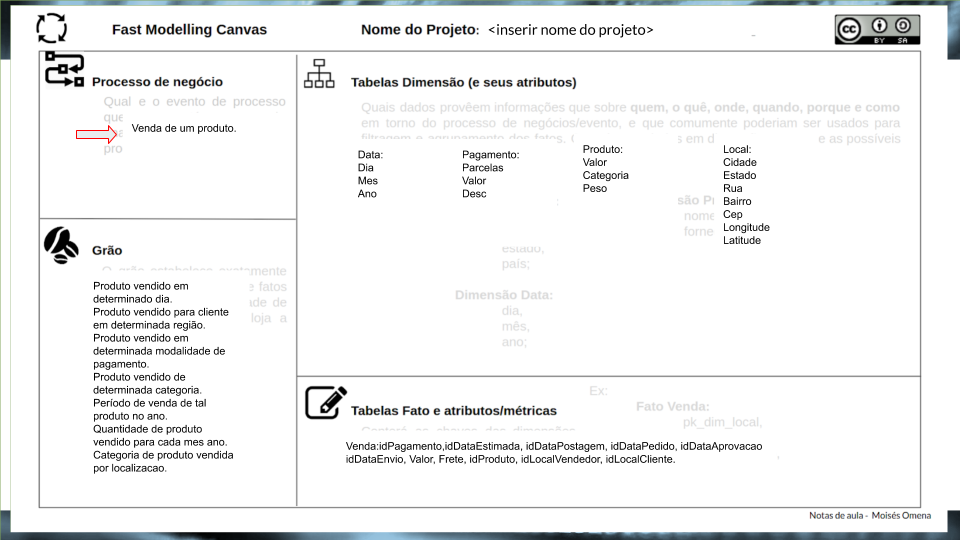
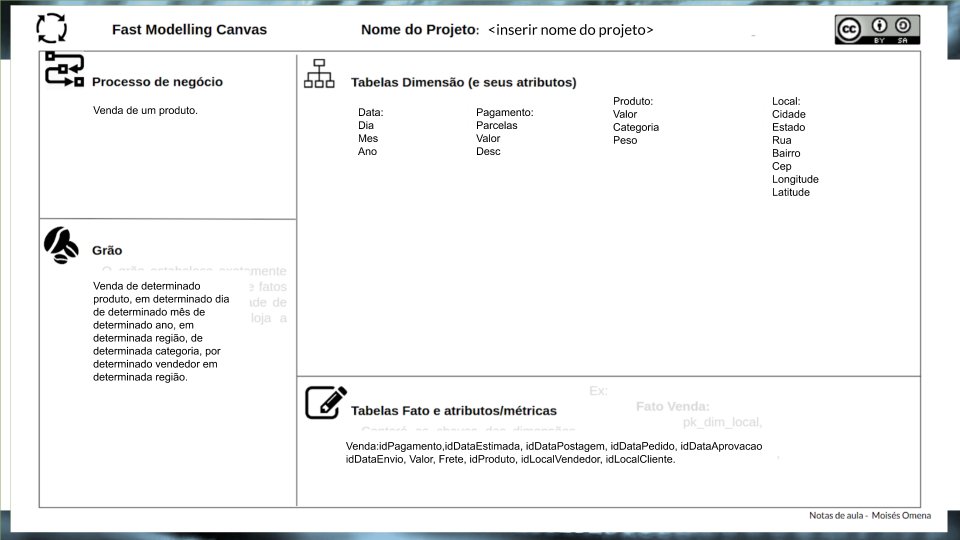
Ajustes Solicitados

diff --git a/README.md b/README.md
@@ -12,29 +12,38 @@ Kaio Fabio - 20182BSI0485<br>
 
 ### 2	Escolha da base de dados e explicação sobre informações relacionadas <br>
 Base escolhida do Site Kaggle.
+
+Este conjunto de dados foi generosamente fornecido pela Olist, a maior loja de departamentos no mercado brasileiro. A Olist conecta pequenas empresas de todo o Brasil a canais sem complicações e com um único contrato. Esses comerciantes podem vender seus produtos através da Olist Store e enviá-los diretamente aos clientes usando os parceiros de logística Olist.
+Depois que um cliente compra o produto na Olist Store, um vendedor é notificado para atender a esse pedido. Assim que o cliente recebe o produto, ou a data estimada de entrega está vencida, o cliente recebe por e-mail uma pesquisa de satisfação onde pode dar uma nota sobre a experiência de compra e escrever alguns comentários.
+
 Brazilian E-Commerce Public Dataset by Olist -URL https://www.kaggle.com/olistbr/brazilian-ecommerce<br>
 
 ### 3 Fast Imersion Canvas <br>
 Inclusão do Fast Imersion Canvas
 ![texto](https://github.com/KaioSSL/TrabalhoBD2_2020/blob/main/Imagens/Fast%20Immersion%20Canvas%20-%20E-commerce%20Brazil.png)
+Link: https://docs.google.com/presentation/d/18WK_3QXJ4UdTJVGzuaaDKdUvGlMRrjsr4doKVj6fWzc/edit?usp=sharing
 <br>
 
 <br>
 ### 4 Fast Modelling Canvas
 <br>
 Inclusão do Fast Modelling Canvas
+Link : https://docs.google.com/presentation/d/1JTXSsGTSYdnxfYHVpME0qgovd8wHGXyNNH1Yf-liFMQ/edit?usp=sharing
 <br>
 <br>
 
 ### 5 Fast EDA Canvas
 <br>
 Inclusão do Fast EDA Canvas + Inclusão de Análise exploratoria de dados (Jupyter notebook/Colab)
+
+Colab Link : https://colab.research.google.com/drive/1kNmaxnsgNglEAneO0hCMf0ngMbJORnbG?usp=sharing
 <br>
 <br>
 
 ### 6 Mapa de ETL
 <br>
 Inclusão do Mapa de ETL
+Colab Link : https://docs.google.com/presentation/d/1O1Psop_Yfs32HV6AB0J7ndgiW_a2sgooj21l17PfCFo/edit?usp=sharing
 <br>
 <br>
      
